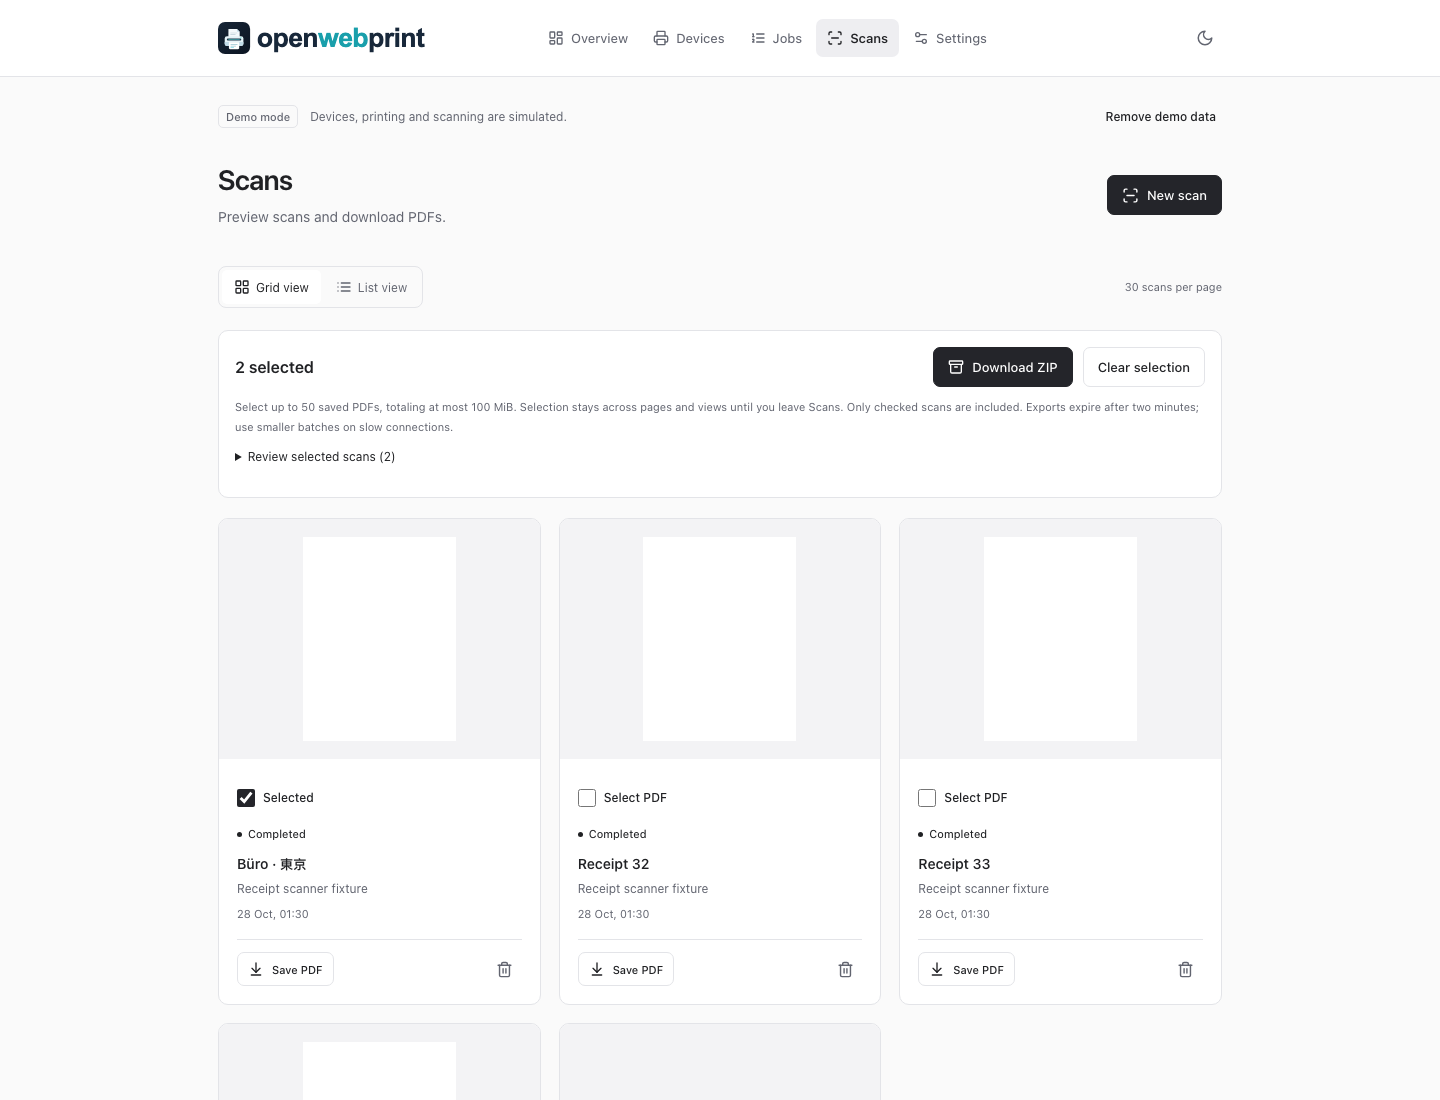
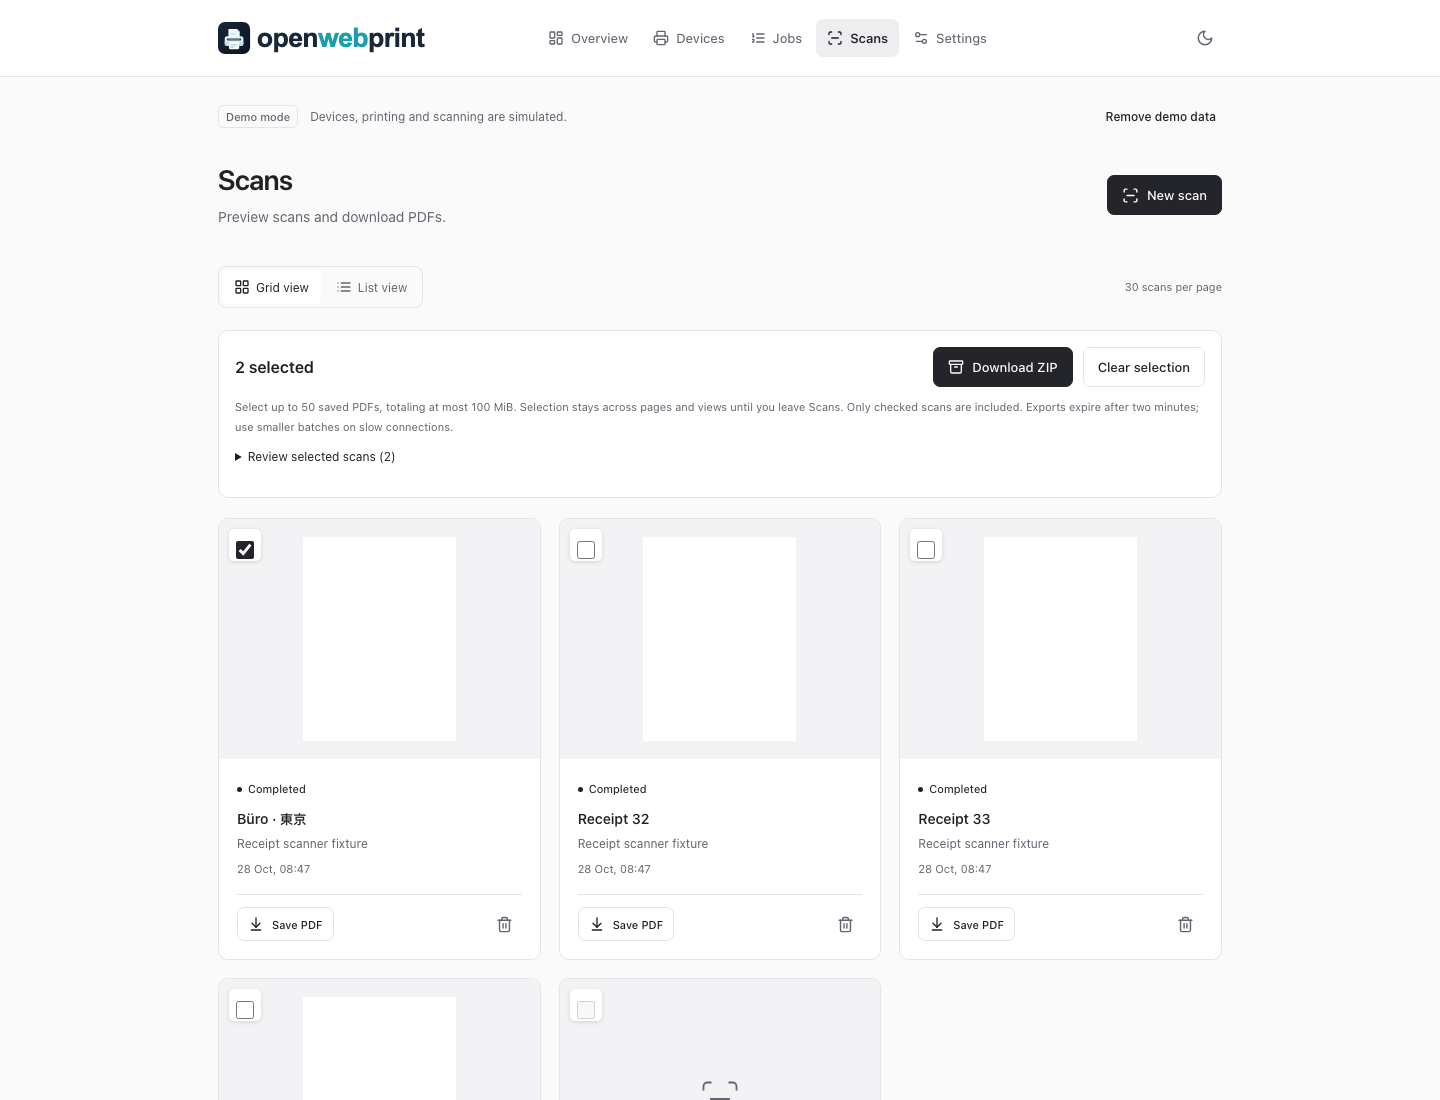
refactor(scan): show ZIP actions only for selected previews

diff --git a/apps/client/src/ScanExport.tsx b/apps/client/src/ScanExport.tsx
@@ -22,6 +22,7 @@ export function ScanExport({
   const [error, setError] = useState('');
   const [message, setMessage] = useState('');
   const controller = useRef<AbortController | undefined>(undefined);
+  const checkboxes = useRef(new Map<string, HTMLInputElement>());
   const downloadUrl = useRef<string | undefined>(undefined);
   const revokeTimer = useRef<ReturnType<typeof setTimeout> | undefined>(undefined);
   useEffect(
@@ -32,7 +33,16 @@ export function ScanExport({
     },
     [],
   );
+  function focusCheckbox(id?: string) {
+    const input = id ? checkboxes.current.get(id) : undefined;
+    const target =
+      input && !input.disabled
+        ? input
+        : [...checkboxes.current.values()].find((input) => !input.disabled);
+    target?.focus();
+  }
   function remove(id: string) {
+    if (selected.length === 1) focusCheckbox(id);
     setSelected((current) => current.filter((scan) => scan.id !== id));
     setError('');
     setMessage('');
@@ -47,6 +57,10 @@ export function ScanExport({
       <label className={styles.select}>
         <input
           type="checkbox"
+          ref={(input) => {
+            if (input) checkboxes.current.set(job.id, input);
+            else checkboxes.current.delete(job.id);
+          }}
           checked={checked}
           aria-label={`Select scan: ${job.title}`}
           disabled={
@@ -74,7 +88,6 @@ export function ScanExport({
             }
           }}
         />
-        <span>{checked ? 'Selected' : 'Select PDF'}</span>
       </label>
     );
   }
@@ -124,79 +137,83 @@ export function ScanExport({
   }
   return (
     <>
-      <section className={styles.export} aria-label="Export selected scans">
-        <div className={styles.actions}>
-          <p role="status">{selected.length} selected</p>
-          <button
-            className={s.primary}
-            disabled={!selected.length || busy}
-            onClick={() => void download()}
-          >
-            {busy ? <Spinner /> : <Archive size={16} />} {busy ? 'Preparing ZIP…' : 'Download ZIP'}
-          </button>
-          {busy ? (
-            <button className={s.secondary} onClick={() => controller.current?.abort()}>
-              Cancel export
-            </button>
-          ) : (
+      {selected.length > 0 && (
+        <section className={styles.export} aria-label="Export selected scans">
+          <div className={styles.actions}>
+            <p role="status">{selected.length} selected</p>
             <button
-              className={s.secondary}
-              disabled={!selected.length}
-              onClick={() => {
-                setSelected([]);
-                setError('');
-                setMessage('');
-              }}
+              className={s.primary}
+              disabled={!selected.length || busy}
+              onClick={() => void download()}
             >
-              Clear selection
+              {busy ? <Spinner /> : <Archive size={16} />}{' '}
+              {busy ? 'Preparing ZIP…' : 'Download ZIP'}
             </button>
+            {busy ? (
+              <button className={s.secondary} onClick={() => controller.current?.abort()}>
+                Cancel export
+              </button>
+            ) : (
+              <button
+                className={s.secondary}
+                disabled={!selected.length}
+                onClick={() => {
+                  focusCheckbox();
+                  setSelected([]);
+                  setError('');
+                  setMessage('');
+                }}
+              >
+                Clear selection
+              </button>
+            )}
+          </div>
+          <p className={s.small}>
+            Select up to {MAX_SCAN_EXPORT_DOCUMENTS} saved PDFs, totaling at most{' '}
+            {MAX_SCAN_EXPORT_BYTES / (1024 * 1024)} MiB. Selection stays across pages and views
+            until you leave Scans. Only checked scans are included. Exports expire after two
+            minutes; use smaller batches on slow connections.
+          </p>
+          {selected.length > 0 && (
+            <details className={styles.selection}>
+              <summary>Review selected scans ({selected.length})</summary>
+              <ul>
+                {selected.map((scan) => (
+                  <li key={scan.id}>
+                    <span>
+                      {scan.title}
+                      <small>
+                        {new Date(scan.createdAt).toLocaleString()} · {scan.id.slice(-8)}
+                      </small>
+                    </span>
+                    <button
+                      className={s.iconButton}
+                      disabled={busy}
+                      aria-label={`Remove selection: ${scan.title}`}
+                      onClick={() => remove(scan.id)}
+                    >
+                      <X size={16} />
+                    </button>
+                  </li>
+                ))}
+              </ul>
+            </details>
           )}
-        </div>
-        <p className={s.small}>
-          Select up to {MAX_SCAN_EXPORT_DOCUMENTS} saved PDFs, totaling at most{' '}
-          {MAX_SCAN_EXPORT_BYTES / (1024 * 1024)} MiB. Selection stays across pages and views until
-          you leave Scans. Only checked scans are included. Exports expire after two minutes; use
-          smaller batches on slow connections.
-        </p>
-        {selected.length > 0 && (
-          <details className={styles.selection}>
-            <summary>Review selected scans ({selected.length})</summary>
-            <ul>
-              {selected.map((scan) => (
-                <li key={scan.id}>
-                  <span>
-                    {scan.title}
-                    <small>
-                      {new Date(scan.createdAt).toLocaleString()} · {scan.id.slice(-8)}
-                    </small>
-                  </span>
-                  <button
-                    className={s.iconButton}
-                    disabled={busy}
-                    aria-label={`Remove selection: ${scan.title}`}
-                    onClick={() => remove(scan.id)}
-                  >
-                    <X size={16} />
-                  </button>
-                </li>
-              ))}
-            </ul>
-          </details>
-        )}
-        {busy && (
-          <p className={s.small}>Preparing the selected PDFs. You can cancel this export.</p>
-        )}
-        {error && (
-          <p role="alert" className={s.error}>
-            {error}
-          </p>
-        )}
-        {message && (
-          <p role="status" className={s.small}>
-            {message}
-          </p>
-        )}
-      </section>
+          {busy && (
+            <p className={s.small}>Preparing the selected PDFs. You can cancel this export.</p>
+          )}
+          {error && (
+            <p role="alert" className={s.error}>
+              {error}
+            </p>
+          )}
+          {message && (
+            <p role="status" className={s.small}>
+              {message}
+            </p>
+          )}
+        </section>
+      )}
       {children(select)}
     </>
   );

diff --git a/apps/client/src/App.tsx b/apps/client/src/App.tsx
@@ -576,29 +576,31 @@ export function App() {
                             <div className={s.scanGrid}>
                               {scans.map((job) => (
                                 <article className={s.scanCard} key={job.id}>
-                                  <button
-                                    className={s.scanThumb}
-                                    disabled={
-                                      !job.hasFile &&
-                                      !job.recovery &&
-                                      !['queued', 'processing'].includes(job.status)
-                                    }
-                                    onClick={() => openScan(job.deviceId, job)}
-                                    aria-label={`Open scan preview: ${job.title}`}
-                                  >
-                                    {job.hasFile ? (
-                                      <img
-                                        src={`/api/jobs/${job.id}/preview?page=${encodeURIComponent(JSON.stringify(job.pages?.[0] ?? job.scanRevision ?? job.updatedAt))}`}
-                                        alt="Scanned page"
-                                        loading="lazy"
-                                        decoding="async"
-                                      />
-                                    ) : (
-                                      <ScanLine size={44} strokeWidth={1} />
-                                    )}
-                                  </button>
+                                  <div className={s.scanThumbWrap}>
+                                    <div className={s.scanSelection}>{selectScan(job)}</div>
+                                    <button
+                                      className={s.scanThumb}
+                                      disabled={
+                                        !job.hasFile &&
+                                        !job.recovery &&
+                                        !['queued', 'processing'].includes(job.status)
+                                      }
+                                      onClick={() => openScan(job.deviceId, job)}
+                                      aria-label={`Open scan preview: ${job.title}`}
+                                    >
+                                      {job.hasFile ? (
+                                        <img
+                                          src={`/api/jobs/${job.id}/preview?page=${encodeURIComponent(JSON.stringify(job.pages?.[0] ?? job.scanRevision ?? job.updatedAt))}`}
+                                          alt="Scanned page"
+                                          loading="lazy"
+                                          decoding="async"
+                                        />
+                                      ) : (
+                                        <ScanLine size={44} strokeWidth={1} />
+                                      )}
+                                    </button>
+                                  </div>
                                   <div className={s.scanCardBody}>
-                                    <div>{selectScan(job)}</div>
                                     <JobBadge status={job.status} />
                                     <h3>{job.title}</h3>
                                     <p>{job.deviceName}</p>
@@ -973,11 +975,11 @@ function JobList({
             <tr key={job.id}>
               <td>
                 <div className={s.documentCell}>
+                  {selection && selection(job)}
                   <span className={s.documentIcon}>
                     {job.kind === 'print' ? <FileText size={19} /> : <ScanLine size={19} />}
                   </span>
                   <div>
-                    {selection && <div>{selection(job)}</div>}
                     <button className={s.documentTitle} onClick={() => preview(job)}>
                       {job.title}
                     </button>

diff --git a/e2e/scan-export.spec.ts b/e2e/scan-export.spec.ts
@@ -59,11 +59,28 @@ test('selects across history pages and layouts, downloads actual PDFs, and repor
   const selection = page.getByRole('region', { name: 'Export selected scans' });
   const count = selection.getByRole('status').first();
   const pages = page.getByRole('navigation', { name: 'Scan history pages' });
-  await expect(count).toHaveText('0 selected');
+  await expect(selection).toHaveCount(0);
+  await expect(page.getByText('Select PDF', { exact: true })).toHaveCount(0);
+  await expect(page.getByRole('checkbox')).toHaveCount(30);
+  await page.screenshot({ path: `test-results/${info.project.name}-84-scan-overview.png` });
+  await page.getByRole('button', { name: 'Change color scheme', exact: true }).click();
+  await expect(page.locator('html')).toHaveAttribute('data-theme', 'dark');
+  const normal = await new AxeBuilder({ page }).analyze();
+  expect(normal.violations.filter((v) => ['serious', 'critical'].includes(v.impact ?? ''))).toEqual(
+    [],
+  );
+  await page.screenshot({ path: `test-results/${info.project.name}-84-scan-overview-dark.png` });
+  await page.getByRole('button', { name: 'Change color scheme', exact: true }).click();
   const first = page.getByRole('checkbox', { name: 'Select scan: Büro · 東京', exact: true });
   await first.focus();
   await page.keyboard.press('Space');
   await expect(first).toBeChecked();
+  await expect(count).toHaveText('1 selected');
+  await expect(page.getByRole('dialog')).toHaveCount(0);
+  await page.keyboard.press('Space');
+  await expect(selection).toHaveCount(0);
+  await expect(first).toBeFocused();
+  await page.keyboard.press('Space');
   await expect(count).toHaveText('1 selected');
   await pages.getByRole('button', { name: 'Next', exact: true }).click();
   await expect(pages.getByRole('status')).toHaveText('31–35 of 35 scans Page 2 of 2');
@@ -113,7 +130,14 @@ test('selects across history pages and layouts, downloads actual PDFs, and repor
     .click();
   await expect(count).toHaveText('1 selected'); // Removal also works for an off-page scan.
   await selection.getByRole('button', { name: 'Clear selection', exact: true }).click();
-  await expect(count).toHaveText('0 selected');
+  await expect(selection).toHaveCount(0);
+  const visible = page.getByRole('checkbox', { name: 'Select scan: Büro · 東京', exact: true });
+  await expect(visible).toBeFocused();
+  await page.keyboard.press('Space');
+  await expect(count).toHaveText('1 selected');
+  await page.keyboard.press('Space');
+  await expect(selection).toHaveCount(0);
+  await expect(visible).toBeFocused();
 });
 
 test('cancels ZIP preparation, retains selection for retry and clears it when leaving Scans', async ({
@@ -151,7 +175,8 @@ test('cancels ZIP preparation, retains selection for retry and clears it when le
     .getByRole('navigation', { name: 'Main navigation' })
     .getByRole('link', { name: 'Scans', exact: true })
     .click();
+  await expect(page.getByRole('region', { name: 'Export selected scans' })).toHaveCount(0);
   await expect(
-    page.getByRole('region', { name: 'Export selected scans' }).getByRole('status').first(),
-  ).toHaveText('0 selected');
+    page.getByRole('checkbox', { name: 'Select scan: Büro · 東京', exact: true }),
+  ).not.toBeChecked();
 });

diff --git a/apps/client/src/App.module.css b/apps/client/src/App.module.css
@@ -504,6 +504,18 @@
   border-radius: 10px;
   overflow: hidden;
 }
+.scanThumbWrap {
+  position: relative;
+}
+.scanSelection {
+  position: absolute;
+  top: 10px;
+  left: 10px;
+  z-index: 1;
+  background: var(--panel);
+  border-radius: 5px;
+  box-shadow: 0 1px 4px #0002;
+}
 .scanThumb {
   width: 100%;
   height: 240px;

diff --git a/apps/client/src/ScanExport.module.css b/apps/client/src/ScanExport.module.css
@@ -18,12 +18,12 @@
   font-weight: 600;
 }
 .select {
-  display: inline-flex;
-  align-items: center;
-  gap: 8px;
-  min-height: 40px;
+  display: grid;
+  place-items: center;
+  width: 32px;
+  height: 32px;
+  flex-shrink: 0;
   cursor: pointer;
-  font-size: 12px;
 }
 .select input {
   width: 18px;

diff --git a/docs/providers.md b/docs/providers.md
@@ -89,6 +89,6 @@ Closing a dialog leaves recovery pending and reachable from scan history. Ready 
 
 `scan-export.ts` uses MIT-licensed `yazl` to stream stored ZIP entries with backpressure from already-open, fixed-size file handles. The sum of original PDF sizes is limited to 100 MiB; ZIP output has an additional 64 KiB header allowance. At most two exports per mode can run concurrently. No archive, PDF copy or token is persisted and no temporary files need removal. UTF-8 entry names preserve normalized Unicode titles, remove control/path/unsafe filename characters, bound the title to 120 bytes and append the full scan UUID for stable collision handling independent of selection order. Source filesystem paths are never used as entry names or errors. ZIP entries use private permissions, the scan's creation timestamp, and no per-file comments. The PDFs are byte-for-byte copies of saved exports, not merged or regenerated.
 
-All streams, file handles, document locks and export slots are released on success, client disconnect, stream/read failure, timeout, source expiry, demo removal and shutdown. The earlier of two minutes from request start and the earliest source expiry bounds stalled downloads; retention changes reschedule or abort active exports immediately. Preflight errors return JSON before response headers. A later storage failure or expiry terminates the transfer, and the browser reports an interrupted export while preserving its selection. The browser receives the bounded archive as a Blob before starting the local save, supports cancellation, and revokes its download URL after use or on unmount. Selection remains across pagination and layouts, records the chosen revisions, and resets when leaving Scans or changing mode.
+All streams, file handles, document locks and export slots are released on success, client disconnect, stream/read failure, timeout, source expiry, demo removal and shutdown. The earlier of two minutes from request start and the earliest source expiry bounds stalled downloads; retention changes reschedule or abort active exports immediately. Preflight errors return JSON before response headers. A later storage failure or expiry terminates the transfer, and the browser reports an interrupted export while preserving its selection. The browser receives the bounded archive as a Blob before starting the local save, supports cancellation, and revokes its download URL after use or on unmount. The normal overview shows only small checkboxes over the top-left corner of previews (beside document details in list view), with accessible names and no visible labels. The export toolbar appears only with a non-empty selection and disappears when the last scan is deselected or the selection is cleared; focus returns to an available checkbox when its toolbar action disappears. Selection remains across pagination and layouts, records the chosen revisions, and resets when leaving Scans or changing mode.
 
 Controlled API tests read actual ZIP entries with the development-only MIT-licensed `yauzl`, verify exact PDF bytes, Unicode/collision names, limits, legacy/current revisions, authentication/mode isolation, missing/expired/changed selections, real HTTP interruption, stalled/failed streams, retention changes and mode removal. Browser tests use synthetic saved scans with the production UI/server to select across two pages and both layouts, download/unzip PDFs, reject a real edit after selection, cancel/retry, and check desktop/mobile accessibility and layout. No scanner hardware or schema migration is required.

diff --git a/README.md b/README.md
@@ -61,7 +61,7 @@ Print all pages by default, or choose **Custom range** (for example, `1-3, 7`) a
 
 Review, crop, rotate, reorder, or remove scanned pages, download or print the PDF, or scan another page. A scan must keep at least one page; delete the scan from Scans to remove the entire document. The sample document is clearly marked as simulated; hardware mode uses the actual scanner output. See the multi-page editor with bounded thumbnails on [desktop](docs/images/scan-thumbnails.png) and [mobile](docs/images/scan-thumbnails-mobile.png).
 
-In **Scans**, check individual saved PDFs and choose **Download ZIP** to hand over several documents together. Selection stays across history pages and Grid/List views; review or remove off-page selections before downloading. The limit is 50 PDFs totaling 100 MiB. Changed, expired or missing scans stop the export with an explanation rather than being silently skipped. Clear the selection to start over; leaving Scans or changing mode clears it too. Downloads can be canceled and expire after two minutes (or earlier when a source expires), so use smaller batches on slow connections. Source documents and their retention dates stay unchanged. This exports PDFs as separate ZIP entries; it is not an instance backup.
+In **Scans**, use the small checkbox at the top-left of a preview to select saved PDFs. The export toolbar appears only once at least one scan is selected; choose **Download ZIP** to hand over those documents together. Clearing the last selection hides the toolbar again. Selection stays across history pages and Grid/List views; review or remove off-page selections before downloading. The limit is 50 PDFs totaling 100 MiB. Changed, expired or missing scans stop the export with an explanation rather than being silently skipped. Clear the selection to start over; leaving Scans or changing mode clears it too. Downloads can be canceled and expire after two minutes (or earlier when a source expires), so use smaller batches on slow connections. Source documents and their retention dates stay unchanged. This exports PDFs as separate ZIP entries; it is not an instance backup.
 
 ## Quick start
 
